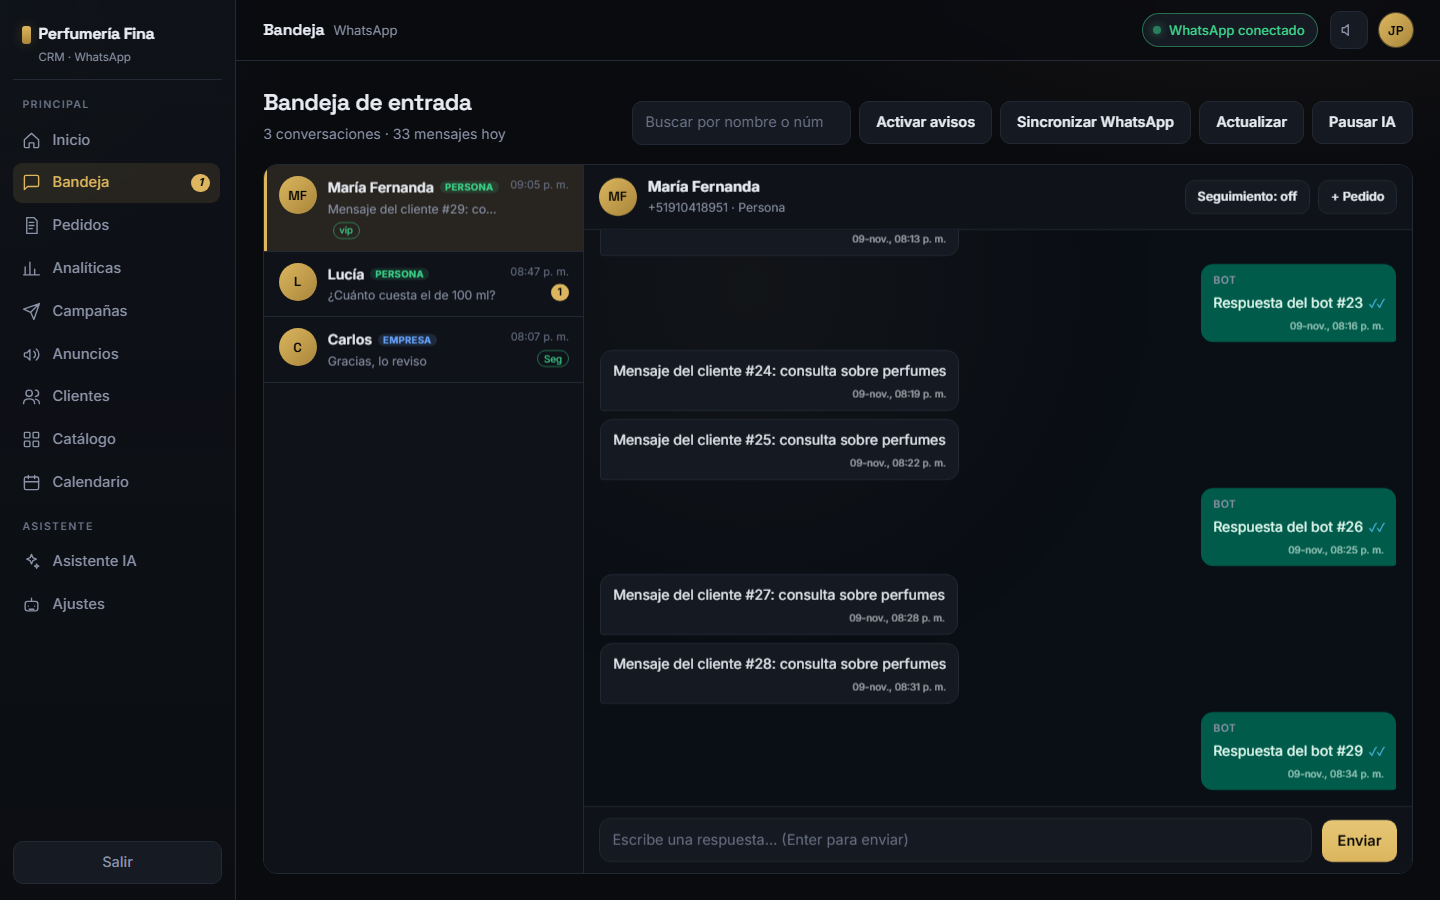
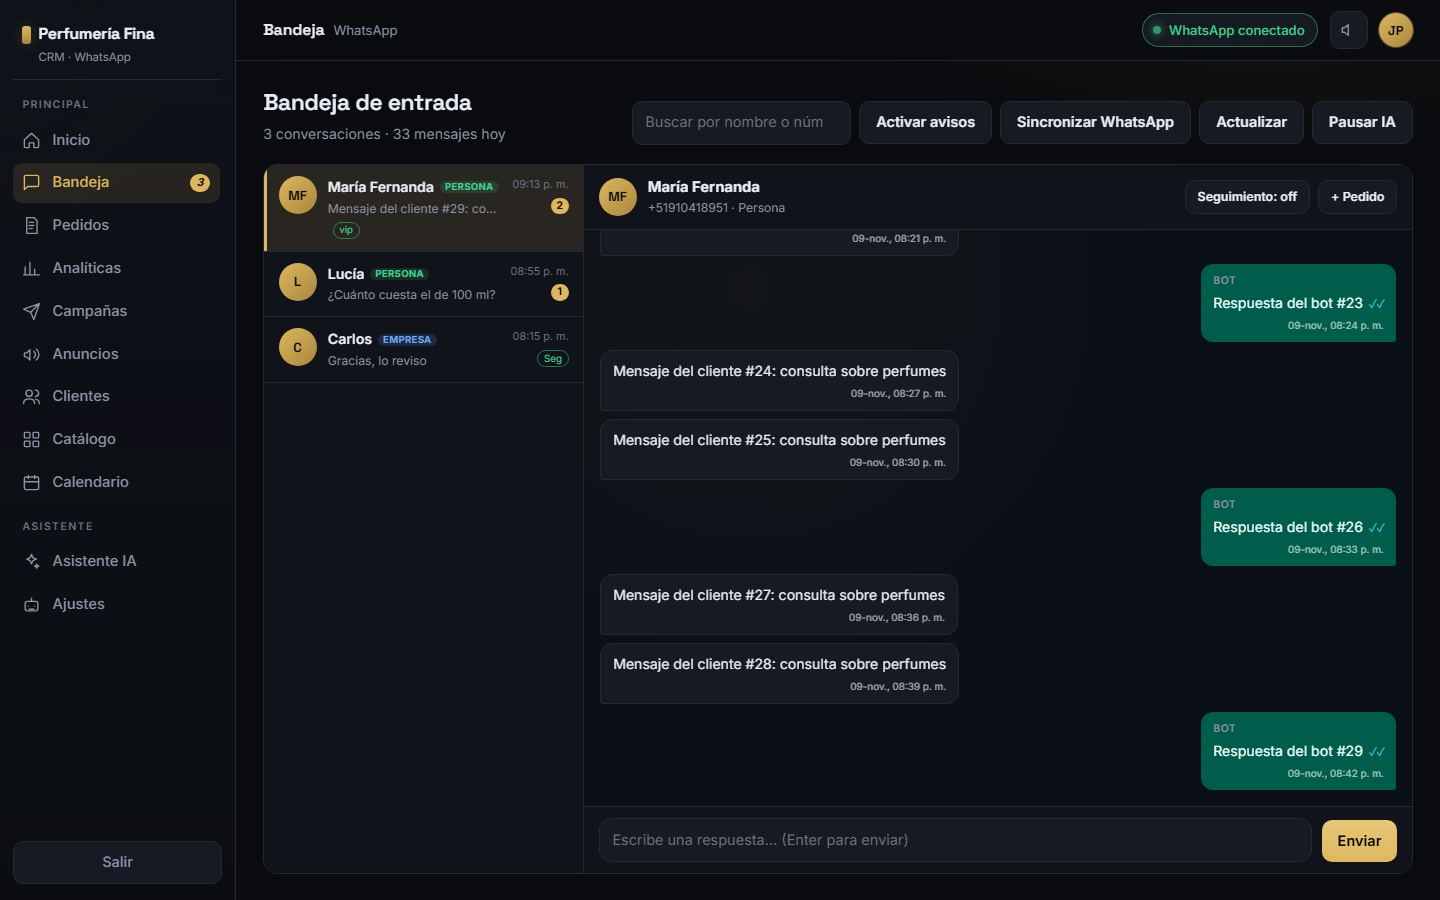
Ajustes editables: limites por dia/respuestas, intervalos de mensajes, entre chats y envio masivo

diff --git a/index.html b/index.html
@@ -727,6 +727,22 @@ dialog::backdrop{background:rgba(3,4,8,.66);backdrop-filter:blur(8px)}
         <p id="b-status" class="muted" style="margin-top:1rem">Sin comprobar.</p>
       </div>
       <div class="box">
+        <h2>Límites y tiempos (anti-baneo)</h2>
+        <p class="muted" style="font-size:.8rem;margin-top:0">Se guardan en el bot y se aplican al instante. <b>0 = sin límite</b>. El bot siempre trabaja <b>chat por chat</b>, nunca todos de golpe.</p>
+        <div class="grid2">
+          <div><label for="aj-max-dia">Mensajes por día (0 = sin límite)</label><input id="aj-max-dia" type="number" min="0" step="1" placeholder="0"></div>
+          <div><label for="aj-max-resp">Respuestas por chat (0 = sin límite)</label><input id="aj-max-resp" type="number" min="0" step="1" placeholder="0"><small class="muted" style="font-size:.72rem">No cuenta el mensaje de saludo/bienvenida.</small></div>
+          <div><label for="aj-min">Intervalo entre mensajes — mínimo (seg)</label><input id="aj-min" type="number" min="1" step="1" placeholder="25"></div>
+          <div><label for="aj-max">Intervalo entre mensajes — máximo (seg)</label><input id="aj-max" type="number" min="1" step="1" placeholder="40"></div>
+          <div><label for="aj-chats">Intervalo entre chats (seg)</label><input id="aj-chats" type="number" min="0" step="1" placeholder="5"><small class="muted" style="font-size:.72rem">Espera antes de responder a otra conversación.</small></div>
+          <div><label for="aj-masivo">Intervalo envío masivo (seg)</label><input id="aj-masivo" type="number" min="1" step="1" placeholder="30"><small class="muted" style="font-size:.72rem">Entre cada mensaje de campaña/anuncio.</small></div>
+          <div><label for="aj-hora-ini">Hora de inicio (Lima)</label><input id="aj-hora-ini" type="number" min="0" max="23" step="1" placeholder="9"></div>
+          <div><label for="aj-hora-fin">Hora de fin (Lima)</label><input id="aj-hora-fin" type="number" min="1" max="24" step="1" placeholder="20"></div>
+        </div>
+        <div class="acts"><button id="aj-save" type="button">Guardar límites y tiempos</button></div>
+        <p class="muted" id="aj-status" style="margin-top:.6rem">—</p>
+      </div>
+      <div class="box">
         <h2>Envío manual (botón WhatsApp)</h2>
         <p class="muted">Cuando uses <b>Enviar por WhatsApp</b> en Campañas, elige dónde abrirlo. En <b>Web</b> se abre en una pestaña de este mismo navegador: si ya iniciaste sesión de WhatsApp Web no te pedirá QR (solo la primera vez). En <b>App</b> se abre la aplicación de escritorio si la tienes instalada.</p>
         <label for="b-wa">Abrir en</label>
@@ -1085,7 +1101,7 @@ function irTab(name){
   else if(name==='analiticas')cargarAnaliticas();
   else if(name==='ia')cargarIA();
   else if(name==='inicio')renderInicio();
-  else if(name==='bot'){refrescarQR();cargarLogs();}
+  else if(name==='bot'){refrescarQR();cargarLogs();cargarAjustes();}
   window.scrollTo({top:0,behavior:'smooth'});
 }
 $('#tabs').onclick=e=>{const b=e.target.closest('button');if(b)irTab(b.dataset.tab)};
@@ -1639,6 +1655,39 @@ function aplicarEventoSSE(d){
   if(d.tipo==='hola')return;
   manejarEvento(d); // derivacion / comprobante / seguimiento
 }
+/* ---------- límites y tiempos (anti-baneo) ---------- */
+async function cargarAjustes(){
+  try{
+    const j=await botFetch('/api/ajustes');
+    const a=j.ajustes||{};
+    const set=(id,v)=>{const el=document.getElementById(id);if(el)el.value=v??'';};
+    set('aj-max-dia',a.maxPorDia);set('aj-max-resp',a.maxRespuestasPorChat);
+    set('aj-min',a.intervaloMin);set('aj-max',a.intervaloMax);
+    set('aj-chats',a.intervaloEntreChats);set('aj-masivo',a.intervaloMasivo);
+    set('aj-hora-ini',a.horaInicio);set('aj-hora-fin',a.horaFin);
+    const es=$('#aj-status');if(es)es.textContent=`Actualizado: ${fmtFechaHora(a.actualizado)}`;
+  }catch(e){const es=$('#aj-status');if(es)es.textContent='No se pudieron cargar los ajustes (revisa la conexión).';}
+}
+$('#aj-save')?.addEventListener('click',async()=>{
+  const b=$('#aj-save');b.disabled=true;
+  try{
+    const num=id=>{const v=Number(document.getElementById(id)?.value);return Number.isFinite(v)?Math.max(0,v):0;};
+    const body={
+      maxPorDia:num('aj-max-dia'),maxRespuestasPorChat:num('aj-max-resp'),
+      intervaloMin:num('aj-min'),intervaloMax:num('aj-max'),
+      intervaloEntreChats:num('aj-chats'),intervaloMasivo:num('aj-masivo'),
+      horaInicio:num('aj-hora-ini'),horaFin:num('aj-hora-fin')
+    };
+    const r=await botFetch('/api/ajustes',{method:'POST',headers:{'Content-Type':'application/json'},body:JSON.stringify(body)});
+    const a=r.ajustes||body;
+    const es=$('#aj-status');
+    if(es)es.textContent=`Guardado ✅ · mensajes ${a.intervaloMin}-${a.intervaloMax}s · entre chats ${a.intervaloEntreChats}s · masivo ${a.intervaloMasivo}s · día ${a.maxPorDia||'sin límite'} · respuestas/chat ${a.maxRespuestasPorChat||'sin límite'}`;
+    toast('Límites y tiempos guardados');
+    actualizarOrbe?.();
+  }catch(e){toast('No se guardó: '+e.message,'error')}
+  b.disabled=false;
+});
+
 $('#b-test').onclick=async()=>{
   guardarBot();
   const s=$('#b-status');s.textContent='Comprobando…';

diff --git a/bot/src/ajustes.js b/bot/src/ajustes.js
@@ -1,0 +1,112 @@
+// Ajustes editables desde el panel (límites e intervalos de envío).
+// Se guardan en bot/data/ajustes.json y sobreescriben los valores del .env,
+// así el dueño puede cambiarlos sin tocar el servidor.
+//
+// Regla del negocio: el bot trabaja SIEMPRE chat por chat (nunca en paralelo)
+// y con pausas configurables, para reducir el riesgo de bloqueo de WhatsApp.
+
+import fs from 'node:fs';
+import path from 'node:path';
+import { fileURLToPath } from 'node:url';
+import { config } from './config.js';
+
+const dataDir = path.join(path.dirname(fileURLToPath(import.meta.url)), '..', 'data');
+const archivo = path.join(dataDir, 'ajustes.json');
+
+const num = (v, d = 0) => {
+  const n = Number(v);
+  return Number.isFinite(n) ? n : d;
+};
+const clamp = (v, min, max) => Math.min(max, Math.max(min, num(v, min)));
+
+/** Valores por defecto: los del .env (así no cambia nada si no se toca nada). */
+const base = () => ({
+  // 0 = sin límite.
+  maxPorDia: Math.max(0, num(config.maxPorDia, 0)),
+  // 0 = sin límite. NO cuenta el mensaje de bienvenida.
+  maxRespuestasPorChat: 0,
+  // Segundos entre mensajes de una misma conversación.
+  intervaloMin: Math.max(1, num(config.delayMin, 25)),
+  intervaloMax: Math.max(1, num(config.delayMax, 40)),
+  // Segundos de espera antes de responder a OTRO chat (el bot va chat por chat).
+  intervaloEntreChats: 5,
+  // Segundos entre cada mensaje de un envío masivo (campaña/anuncio).
+  intervaloMasivo: 30,
+  horaInicio: Math.min(23, Math.max(0, num(config.horaInicio, 9))),
+  horaFin: Math.min(24, Math.max(1, num(config.horaFin, 20))),
+  actualizado: new Date().toISOString()
+});
+
+function cargar() {
+  try {
+    const j = JSON.parse(fs.readFileSync(archivo, 'utf8'));
+    return normalizar({ ...base(), ...j });
+  } catch {
+    return base();
+  }
+}
+
+function normalizar(a = {}) {
+  const intervaloMin = clamp(a.intervaloMin, 1, 3600);
+  const intervaloMax = Math.max(intervaloMin, clamp(a.intervaloMax, 1, 3600));
+  return {
+    maxPorDia: Math.max(0, Math.round(num(a.maxPorDia, 0))),
+    maxRespuestasPorChat: Math.max(0, Math.round(num(a.maxRespuestasPorChat, 0))),
+    intervaloMin,
+    intervaloMax,
+    intervaloEntreChats: clamp(a.intervaloEntreChats, 0, 3600),
+    intervaloMasivo: clamp(a.intervaloMasivo, 1, 3600),
+    horaInicio: Math.min(23, Math.max(0, Math.round(num(a.horaInicio, 9)))),
+    horaFin: Math.min(24, Math.max(1, Math.round(num(a.horaFin, 20)))),
+    actualizado: new Date().toISOString()
+  };
+}
+
+let estado = cargar();
+
+function guardar() {
+  try {
+    fs.mkdirSync(dataDir, { recursive: true });
+    fs.writeFileSync(archivo, JSON.stringify(estado, null, 2), 'utf8');
+  } catch (e) {
+    console.warn('[ajustes] no se pudo guardar:', e.message);
+  }
+}
+
+export function estadoAjustes() {
+  return { ...estado };
+}
+
+/** Aplica los ajustes al objeto `config` en caliente (sin reiniciar el bot). */
+export function aplicarAjustes() {
+  config.maxPorDia = estado.maxPorDia;
+  config.delayMin = estado.intervaloMin;
+  config.delayMax = estado.intervaloMax;
+  config.horaInicio = estado.horaInicio;
+  config.horaFin = estado.horaFin;
+  return estadoAjustes();
+}
+
+export function actualizarAjustes(cambios = {}) {
+  estado = normalizar({ ...estado, ...cambios });
+  guardar();
+  return aplicarAjustes();
+}
+
+/** Milisegundos entre mensajes de un envío masivo (campañas y anuncios). */
+export function esperaMasivaMs() {
+  const seg = Number(estado.intervaloMasivo) || 0;
+  return Math.max(1000, seg * 1000);
+}
+
+/** Milisegundos entre mensajes de una conversación normal. */
+export function esperaChatMs() {
+  const a = Number(estado.intervaloMin) || 25;
+  const b = Math.max(a, Number(estado.intervaloMax) || 40);
+  return (a + Math.random() * (b - a)) * 1000;
+}
+
+// Al importar, deja config sincronizada con lo guardado.
+aplicarAjustes();
+
+export default { estadoAjustes, actualizarAjustes, aplicarAjustes, esperaMasivaMs, esperaChatMs };

diff --git a/bot/src/server.js b/bot/src/server.js
@@ -8,6 +8,7 @@ import { iniciarWhatsApp, enviar, enviarImagen, enviarArchivo, estadoWa, cerrarS
 import { redactarRespuesta, transcribirAudio, redactarBorradores, redactarAnuncio, productoPorId, productoMencionado } from './ai.js';
 import { Cola, dormir, esperaEntreEnvios } from './queue.js';
 import { estadoIA, actualizarIA, pausarIA, estaPausado, promptIA, resumenIA } from './ia.js';
+import { estadoAjustes, actualizarAjustes, esperaMasivaMs, esperaChatMs } from './ajustes.js';
 import { registrar, listar, obtener, marcarLeido, respuestasIA, porDia, resumen as resumenChats, registrarCabecera, importarMensajes, yaExisteWa, actualizarAck, mensajesEntrantes, flush as flushConversaciones } from './conversaciones.js';
 import * as pedidos from './pedidos.js';
 import * as anuncios from './anuncios.js';
@@ -934,7 +935,7 @@ async function enviarAnuncio(id) {
         anuncio = anuncios.progreso(id, { total: lista.length, enviados, errores, estado: 'enviando', enviadosA: [...yaEnviados] });
       }
       emitir('anuncio', { id, titulo: anuncio.titulo, estado: 'enviando', enviados, total: lista.length, errores });
-      await dormir(esperaEntreEnvios());
+      await dormir(esperaMasivaMs());
     } catch (e) {
       errores++;
       log(`Anuncio "${anuncio.titulo}": falló el envío a +${d.telefono}: ${e.message}`);
@@ -1185,7 +1186,7 @@ async function enviarCampana(id) {
         }
       }
 
-      await dormir(esperaEntreEnvios(config.delayMin, config.delayMax));
+      await dormir(esperaChatMs());
     }
     motivo = 'completada';
   } catch (e) {
@@ -1209,6 +1210,17 @@ const yaRespondidos = new Set();
 const ultimoProducto = new Map();
 // Última respuesta por teléfono: frena ráfagas sin bloquear (cooldown corto).
 const cooldown = new Map();
+// Momento de la última respuesta automática, para espaciar respuestas entre
+// chats distintos (el bot nunca contesta a todos de golpe).
+let ultimaRespuestaGlobal = 0;
+async function esperarTurnoChat() {
+  const gap = Math.max(0, Number(estadoAjustes().intervaloEntreChats) || 0) * 1000;
+  if (gap > 0) {
+    const espera = gap - (Date.now() - ultimaRespuestaGlobal);
+    if (espera > 0) await dormir(espera);
+  }
+  ultimaRespuestaGlobal = Date.now();
+}
 
 /** Texto de un mensaje o un marcador si es multimedia. */
 function textoDe(msg) {
@@ -1493,6 +1505,10 @@ async function manejarMensaje(msg, sesionId = null) {
     return;
   }
   cooldown.set(tel, Date.now());
+
+  // El bot atiende chat por chat: respeta el intervalo configurado entre
+  // respuestas a conversaciones distintas (anti-baneo).
+  await esperarTurnoChat();
 
   try {
     log(`Pensando respuesta para +${tel}...`);
@@ -2057,6 +2073,20 @@ app.get('/api/stream', auth, (req, res) => {
 });
 
 /* ---------------- Asistente IA ---------------- */
+app.get('/api/ajustes', auth, (_req, res) => res.json({ ajustes: estadoAjustes() }));
+
+app.post('/api/ajustes', auth, (req, res) => {
+  try {
+    const a = actualizarAjustes(req.body || {});
+    // El límite de respuestas por chat vive en el estado de la IA.
+    try { actualizarIA({ maxPorConversacion: a.maxRespuestasPorChat }); } catch { /* opcional */ }
+    log(`Ajustes actualizados: día=${a.maxPorDia || 'sin límite'} · respuestas/chat=${a.maxRespuestasPorChat || 'sin límite'} · mensajes=${a.intervaloMin}-${a.intervaloMax}s · entre chats=${a.intervaloEntreChats}s · masivo=${a.intervaloMasivo}s`);
+    res.json({ ok: true, ajustes: a });
+  } catch (e) {
+    res.status(400).json({ error: e.message });
+  }
+});
+
 app.get('/api/ia', auth, (_req, res) => res.json(estadoIA()));
 
 app.post('/api/ia', auth, (req, res) => {
@@ -2565,7 +2595,7 @@ async function revisarSeguimientos() {
         log(`No se pudo enviar el seguimiento a +${t.telefono}: ${e.message}`);
         break;
       }
-      await dormir(esperaEntreEnvios(config.delayMin, config.delayMax));
+      await dormir(esperaChatMs());
     }
   } finally {
     revisandoSeg = false;
